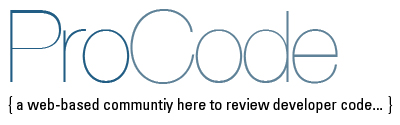
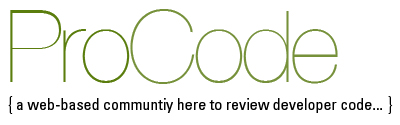
New colors + css updates.

diff --git a/webroot/css/style.css b/webroot/css/style.css
@@ -8,7 +8,7 @@ body {
 	color: #000000;
 }
 h1 {
-	color: #215D84;
+	color: #5A7D0D;
 	font-size: 2em;
 	line-height: 1.2em;
 	font-weight: normal;
@@ -24,7 +24,7 @@ h3 {
 	line-height: 1.3em;
 	margin-top: 1.5em;
 }
-a {text-decoration: none; outline: 0px; color: #215D84;}
+a {text-decoration: none; outline: 0px; color: #5A7D0D;}
 a:hover { text-decoration: underline; }
 a img { border: none; }
 
@@ -41,18 +41,18 @@ table tr th {
 	text-align:left;
 	color:#ffffff;
 	height:40px;
-	background-color:#215D84;
+	background-color:#5A7D0D;
 }
 table tr th a {
 	color:#ffffff;
 }
 table .altrow {
-	background-color:#A6CCE5;
+	background-color:#C1E07D;
 }
 
 /*** General Classes ***/
 .light-blue {
-	color: #5f8298;
+	color: #76913A;
 }
 
 /*** Layout ***/
@@ -65,7 +65,7 @@ table .altrow {
 #header {
 }
 #header #bar {
-	background: #215d84;
+	background: #5A7D0D;
 min-width:960px;
 	overflow: auto;
 }
@@ -104,7 +104,7 @@ min-width:960px;
 #header #bar form .submit input {
 	padding: 2px 5px;
 	background-color:#ffffff;
-	border:1px solid #215b84;
+	border:1px solid #5A7D0D;
 	width:75px;
 	height:24px;
 	position:relative;
@@ -119,14 +119,14 @@ min-width:960px;
 	text-indent: -9999px;
 }
 #header .reviewCount {
-	color:#215D84;
+	color:#5A7D0D;
 	font-size:2.5em;
 	float:right;
 	margin:80px 46px 0 0 ;
 	text-align:right; 
 }
 #header .reviewCount span {
-	color:#90C3E5;
+	color:#B6E05A;
 	display:block;
 	font-size:.75em;
 	margin-top:10px;
@@ -154,23 +154,23 @@ min-width:960px;
 	height: 20px;
 	padding-top: 5px;
 	margin: 0 5px;
-	color: #215d84;
+	color: #5A7D0D;
 	background-color: #ffffff;
 	font-size:1em;
-	border: 1px solid #215d84;
+	border: 1px solid #5A7D0D;
 	border-bottom: none;
 }
 #header #tabs ul li a.current, #header #tabs ul li a:hover {
 	color: #ffffff;
-	background-color: #215d84;
+	background-color: #5A7D0D;
 	text-decoration: none;
 }
 
 /* Mid-section Wrapper */
 #body {
 	overflow: auto;
-	border-top: 1px solid #215d84;
-	border-bottom: 1px solid #215d84;
+	border-top: 1px solid #5A7D0D;
+	border-bottom: 1px solid #5A7D0D;
 	padding: 0 50px;
 }
 
@@ -187,7 +187,7 @@ min-width:960px;
 	width:240px;
 }
 #sidebar h3 span {
-	color: #215b84;
+	color: #5A7D0D;
 }
 #sidebar ul {
 	margin-top: 1em;
@@ -200,18 +200,18 @@ min-width:960px;
 #sidebar ul li a {
 	font-size: 1.2em;
 	line-height: 1.4em;
-	color:#215D84;
+	color:#5A7D0D;
 }
 
 /* footer */
 #footer {
 	height: 200px;
-	color:#215D84;
+	color:#5A7D0D;
 	width: 960px;
 	margin: 20px auto;
 }
 #footer a {
-	color:#215D84;
+	color:#5A7D0D;
 }
 #footer ul {
 	margin-top:10px;
@@ -225,7 +225,7 @@ min-width:960px;
 #footer ul li h4 {
 	font-weight:bold;
 	font-size:1.1em;
-	color:#215D84;
+	color:#5A7D0D;
 }
 #footer ul li h4 a{
 }
@@ -248,7 +248,7 @@ min-width:960px;
 }
 
 #content form a {
-	color:#215D84;
+	color:#5A7D0D;
 	font-size: .7em;
 	margin-left:1em;
 }
@@ -262,7 +262,7 @@ min-width:960px;
 	margin-bottom:1em;
 }
 #content form label {
-	color:#215D84;
+	color:#5A7D0D;
 	padding-right:5px;
 	display:inline-block;
 	width:141px;
@@ -270,20 +270,20 @@ min-width:960px;
 #content form input {
 	height:20px;
 	margin:5px 5px 10px 5px;
-	border:#5f8298 1px solid;
+	border:#76913A 1px solid;
 }
 #content form .checkbox input {
 	height: auto;
 }
 #content form input:hover {
-	border: #215D84 1px solid;
+	border: #5A7D0D 1px solid;
 }
 #content form select, #content form textarea{
-	border:1px solid #5f8298;
+	border:1px solid #76913A;
 	margin:5px 5px 10px 5px;
 }
 #content form select:hover, #content form textarea:hover {
-	border:1px solid #215b84;
+	border:1px solid #5A7D0D;
 }
 #content form .select {
 	overflow: auto;
@@ -298,7 +298,7 @@ min-width:960px;
 	float: none;
 }
 #content .submit input {
-	background-color:#215D84;
+	background-color:#5A7D0D;
 	color:white;
 	width:100px;
 	font-size:.9em;
@@ -330,7 +330,7 @@ ul.reviews .scores {
 	font-weight: bold;
 	font-size: 2.7em;
 	line-height: 1.1em;
-	background-color: #5F8298;
+	background-color: #76913A;
 	-moz-box-shadow: #bbbbbb 4px 4px 4px;
 	-webkit-box-shadow: #bbbbbb 4px 4px 4px;
       box-shadow: #bbbbbb 4px 4px 4px;
@@ -342,11 +342,11 @@ ul.reviews .scores span {
 	font-weight: normal;
 }
 ul.reviews .scores div {
-	background-color: #215d84;
+	background-color: #5A7D0D;
 	margin: 7px;
 }
 ul.reviews h4 {
-	color: #215D84;
+	color: #5A7D0D;
 	font-weight: normal;
 	font-size: 1.3em;
 	line-height: 1.5em;
@@ -358,7 +358,7 @@ ul.reviews h4 {
 	float: right;
 }
 .userbox a {
-	color: #215d84;
+	color: #5A7D0D;
 }
 .userbox span {
 	color: #CCC;
@@ -388,7 +388,7 @@ td.actions, th.actions { overflow: visible;}
 	list-style: none;
 }
 .actions ul li a {
-	color:#66A3CA;
+	color:#91C127;
 	font-size:.9em;
 	display: block;
 	width: 128px;
@@ -398,12 +398,12 @@ td.actions, th.actions { overflow: visible;}
 	margin: 0 5px;
 	background-color: #ffffff;
 	font-size:1em;
-	border: 1px solid #66A3CA;
+	border: 1px solid #91C127;
 
 }
 .actions ul li a.current, .actions ul li a:hover {
 	color: #ffffff;
-	background-color: #66A3CA;
+	background-color: #91C127;
 	text-decoration: none;
 }
 
@@ -411,7 +411,7 @@ td.actions, th.actions { overflow: visible;}
 /* Users */
 .users.view img {
 	float: right;
-	border: 5px solid #215b84;
+	border: 5px solid #5A7D0D;
 }
 
 .users h3 {
@@ -429,7 +429,7 @@ margin-bottom:.5em;
 }
 
 .users dl dt {
-color:#215b84;
+color:#5A7D0D;
 margin-bottom:.3em;
 }
 
@@ -447,7 +447,7 @@ ul.filters li {
 	color: #000000;
 }
 ul.filters li a {
-	color: #215D84;
+	color: #5A7D0D;
 }
 ul.filters li a.current {
 	color: #000000;
@@ -461,19 +461,19 @@ ul.filters li a.current {
 	margin-left: 2px;
 }
 .paging span, .paging a {
-	border: 1px solid #215D84;
+	border: 1px solid #5A7D0D;
 	padding: 12px;
 	text-align: center;
 }
 .paging a {
-	color: #215D84;
+	color: #5A7D0D;
 }
 .paging a:hover, .paging .current {
-	background-color: #215D84;
+	background-color: #5A7D0D;
 	color:#ffffff;
 }
 .paging .disabled {
-	background-color: #5F8298;
+	background-color: #76913A;
 }
 
 /* Ranks */
@@ -482,12 +482,12 @@ ul.filters li a.current {
 }
 .ranks dl dt, .faq dl dt {
 	font-size:2em;
-	color:#215b84;
+	color:#5A7D0D;
 	margin-bottom:.5em;
 	background-color:#ffffff;
 }
 .ranks dl dt a, .faq dl dt a {
-	color:#215b84;
+	color:#5A7D0D;
 	margin-right:1em;
 }
 .ranks dl dd, .faq dl dd {
@@ -509,7 +509,7 @@ ol.ui-selectable {
 	color:#ffffff;
 	padding:5px 0;
 	text-align:center;
-	background-color:#215D84;
+	background-color:#5A7D0D;
 	margin:1em 0;
 }
 
@@ -532,8 +532,8 @@ ol.ui-selectable {
 .next, .previous, .thumbsUp, .thumbsDown, .remove, .star, .listAll, .hideList, .subscribe {
 display:block;
 float:right;
-width:48px;
-height:48px;
+width:30px;
+height:30px;
 margin:5px;
 text-indent:-9999px;
 

diff --git a/webroot/css/jquery-ui-1.8.custom.css b/webroot/css/jquery-ui-1.8.custom.css
@@ -41,7 +41,7 @@
 * jQuery UI CSS Framework
 * Copyright (c) 2010 AUTHORS.txt (http://jqueryui.com/about)
 * Dual licensed under the MIT (MIT-LICENSE.txt) and GPL (GPL-LICENSE.txt) licenses.
-* To view and modify this theme, visit http://jqueryui.com/themeroller/?ffDefault=Helvetica,%20Trebuchet%20MS,%20sans-serif&fwDefault=normal&fsDefault=1.3em&cornerRadius=0px&bgColorHeader=A6CCE5&bgTextureHeader=01_flat.png&bgImgOpacityHeader=100&borderColorHeader=A6CCE5&fcHeader=000000&iconColorHeader=215D84&bgColorContent=ffffff&bgTextureContent=01_flat.png&bgImgOpacityContent=100&borderColorContent=A6CCE5&fcContent=000000&iconColorContent=90c3e5&bgColorDefault=ffffff&bgTextureDefault=01_flat.png&bgImgOpacityDefault=50&borderColorDefault=d3d3d3&fcDefault=555555&iconColorDefault=5f8298&bgColorHover=215D84&bgTextureHover=01_flat.png&bgImgOpacityHover=100&borderColorHover=215D84&fcHover=ffffff&iconColorHover=ffffff&bgColorActive=215D84&bgTextureActive=01_flat.png&bgImgOpacityActive=100&borderColorActive=215D84&fcActive=ffffff&iconColorActive=ffffff&bgColorHighlight=fbf9ee&bgTextureHighlight=02_glass.png&bgImgOpacityHighlight=55&borderColorHighlight=fcefa1&fcHighlight=363636&iconColorHighlight=2e83ff&bgColorError=fef1ec&bgTextureError=05_inset_soft.png&bgImgOpacityError=95&borderColorError=cd0a0a&fcError=cd0a0a&iconColorError=cd0a0a&bgColorOverlay=aaaaaa&bgTextureOverlay=01_flat.png&bgImgOpacityOverlay=0&opacityOverlay=30&bgColorShadow=cdcdcd&bgTextureShadow=01_flat.png&bgImgOpacityShadow=20&opacityShadow=30&thicknessShadow=8px&offsetTopShadow=-8px&offsetLeftShadow=-8px&cornerRadiusShadow=8px
+* To view and modify this theme, visit http://jqueryui.com/themeroller/?ffDefault=Helvetica,%20Trebuchet%20MS,%20sans-serif&fwDefault=normal&fsDefault=1.3em&cornerRadius=0px&bgColorHeader=A6CCE5&bgTextureHeader=01_flat.png&bgImgOpacityHeader=100&borderColorHeader=A6CCE5&fcHeader=000000&iconColorHeader=5A7D0D&bgColorContent=ffffff&bgTextureContent=01_flat.png&bgImgOpacityContent=100&borderColorContent=A6CCE5&fcContent=000000&iconColorContent=90c3e5&bgColorDefault=ffffff&bgTextureDefault=01_flat.png&bgImgOpacityDefault=50&borderColorDefault=d3d3d3&fcDefault=555555&iconColorDefault=5f8298&bgColorHover=5A7D0D&bgTextureHover=01_flat.png&bgImgOpacityHover=100&borderColorHover=5A7D0D&fcHover=ffffff&iconColorHover=ffffff&bgColorActive=5A7D0D&bgTextureActive=01_flat.png&bgImgOpacityActive=100&borderColorActive=5A7D0D&fcActive=ffffff&iconColorActive=ffffff&bgColorHighlight=fbf9ee&bgTextureHighlight=02_glass.png&bgImgOpacityHighlight=55&borderColorHighlight=fcefa1&fcHighlight=363636&iconColorHighlight=2e83ff&bgColorError=fef1ec&bgTextureError=05_inset_soft.png&bgImgOpacityError=95&borderColorError=cd0a0a&fcError=cd0a0a&iconColorError=cd0a0a&bgColorOverlay=aaaaaa&bgTextureOverlay=01_flat.png&bgImgOpacityOverlay=0&opacityOverlay=30&bgColorShadow=cdcdcd&bgTextureShadow=01_flat.png&bgImgOpacityShadow=20&opacityShadow=30&thicknessShadow=8px&offsetTopShadow=-8px&offsetLeftShadow=-8px&cornerRadiusShadow=8px
 */
 
 
@@ -52,16 +52,16 @@
 .ui-widget input, .ui-widget select, .ui-widget textarea, .ui-widget button { font-family: Helvetica, Trebuchet MS, sans-serif; font-size: 1em; }
 .ui-widget-content { background: #ffffff url(../img/jquery-ui/ui-bg_flat_100_ffffff_40x100.png) 50% 50% repeat-x; color: #000000; }
 .ui-widget-content a { color: #000000; }
-.ui-widget-header { border-bottom: 1px solid #215b84; color: #000000; font-weight: bold; display:block; height:28px; overflow:hidden;}
+.ui-widget-header { border-bottom: 1px solid #5A7D0D; color: #000000; font-weight: bold; display:block; height:28px; overflow:hidden;}
 .ui-widget-header a { color: #000000; }
 
 /* Interaction states
 ----------------------------------*/
-.ui-state-default, .ui-widget-content .ui-state-default { border: #215b84 1px solid; background: #ffffff url(../img/jquery-ui/ui-bg_flat_50_ffffff_40x100.png) 50% 50% repeat-x; font-weight: normal; color: #555555; }
+.ui-state-default, .ui-widget-content .ui-state-default { border: #5A7D0D 1px solid; background: #ffffff url(../img/jquery-ui/ui-bg_flat_50_ffffff_40x100.png) 50% 50% repeat-x; font-weight: normal; color: #555555; }
 .ui-state-default a, .ui-state-default a:link, .ui-state-default a:visited { color: #555555; text-decoration: none; }
-.ui-state-hover, .ui-widget-content .ui-state-hover, .ui-state-focus, .ui-widget-content .ui-state-focus { border: 1px solid #215d84; background: #215d84 url(../img/jquery-ui/ui-bg_flat_100_215d84_40x100.png) 50% 50% repeat-x; font-weight: normal; color: #ffffff; }
+.ui-state-hover, .ui-widget-content .ui-state-hover, .ui-state-focus, .ui-widget-content .ui-state-focus { border: 1px solid #5A7D0D; background: #5A7D0D url(../img/jquery-ui/ui-bg_flat_100_5A7D0D_40x100.png) 50% 50% repeat-x; font-weight: normal; color: #ffffff; }
 .ui-state-hover a, .ui-state-hover a:hover { color: #ffffff; text-decoration: none; }
-.ui-state-active, .ui-widget-content .ui-state-active { border: 1px solid #215d84; background: #215d84 url(../img/jquery-ui/ui-bg_flat_100_215d84_40x100.png) 50% 50% repeat-x; font-weight: normal; color: #ffffff; }
+.ui-state-active, .ui-widget-content .ui-state-active { border: 1px solid #5A7D0D; background: #5A7D0D url(../img/jquery-ui/ui-bg_flat_100_5A7D0D_40x100.png) 50% 50% repeat-x; font-weight: normal; color: #ffffff; }
 .ui-state-active a, .ui-state-active a:link, .ui-state-active a:visited { color: #ffffff; text-decoration: none; }
 .ui-widget :active { outline: none; }
 
@@ -82,7 +82,7 @@
 /* states and images */
 .ui-icon { width: 16px; height: 16px; background-image: url(../img/jquery-ui/ui-icons_90c3e5_256x240.png); }
 .ui-widget-content .ui-icon {background-image: url(../img/jquery-ui/ui-icons_90c3e5_256x240.png); }
-.ui-widget-header .ui-icon {background-image: url(../img/jquery-ui/ui-icons_215d84_256x240.png); }
+.ui-widget-header .ui-icon {background-image: url(../img/jquery-ui/ui-icons_5A7D0D_256x240.png); }
 .ui-state-default .ui-icon { background-image: url(../img/jquery-ui/ui-icons_5f8298_256x240.png); }
 .ui-state-hover .ui-icon, .ui-state-focus .ui-icon {background-image: url(../img/jquery-ui/ui-icons_ffffff_256x240.png); }
 .ui-state-active .ui-icon {background-image: url(../img/jquery-ui/ui-icons_ffffff_256x240.png); }
